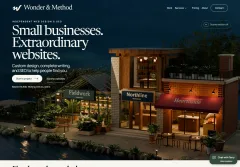
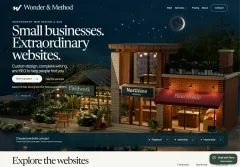
Add looping night sky and clarify homepage service copy

diff --git a/src/assets/living-city.css b/src/assets/living-city.css
@@ -146,6 +146,31 @@ html:not(.nav-ready) .studio-home.edition-living-city .city-copy{padding-top:26p
 .city-star:nth-child(18){--star-x:77%;--star-y:14%;--star-period:5.4s;--star-delay:-2.1s}
 .is-city-playing .city-star{animation-play-state:running}
 @keyframes city-twinkle{0%,100%{opacity:.18;transform:scale(.6)}35%{opacity:.35;transform:scale(.85)}52%{opacity:1;transform:scale(1.5)}70%{opacity:.3;transform:scale(.8)}}
+/* The sky continues after the introduction; every effect shares the playback state. */
+.city-night{position:absolute;z-index:0;top:-55px;left:-20%;width:90%;max-width:450px;height:150px;pointer-events:none}
+.city-moon{position:absolute;right:0;top:-6px;width:100px;height:100px}
+.city-moon-surface{position:absolute;inset:0;background:url('/assets/living-city-night/crescent-moon.webp') center/contain no-repeat;filter:drop-shadow(0 0 8px #ffe8b94d)}
+.city-moon-halo{position:absolute;inset:-28%;border-radius:50%;background:radial-gradient(ellipse,#b9dcf21c 0%,#b9dcf20a 35%,transparent 67%);opacity:.6}
+.city-constellations{position:absolute;inset:0;width:100%;height:100%;overflow:visible}
+.city-star-route{stroke:#b9d9e7;stroke-width:.8;stroke-linecap:round;stroke-linejoin:round;stroke-dasharray:1;stroke-dashoffset:0;opacity:.24}
+.city-map-stars{fill:#fff2d6;filter:drop-shadow(0 0 3px #dfebff);opacity:.8}
+.city-star-glint{stroke:#e9f5ff;stroke-width:.75;stroke-linecap:round;opacity:.55;filter:drop-shadow(0 0 3px #d4e9ff)}
+.city-constellation--two{--night-delay:-7s;--glimmer-delay:-3s}
+.city-meteor{position:absolute;left:10%;top:12%;width:108px;height:2px;border-radius:50%;background:linear-gradient(90deg,transparent,#b9dcf266 65%,#fff6dc);box-shadow:4px 0 8px -2px #f2f7ff;opacity:0;transform:translate(0,0) rotate(24deg);transform-origin:right center;--meteor-x:320px;--meteor-y:130px}
+.city-meteor::after{content:'';position:absolute;right:0;top:-1px;width:4px;height:4px;border-radius:50%;background:#fff9e9;box-shadow:0 0 8px 2px #dceeff80}
+.city-meteor--two{left:44%;top:4%;width:75px;--meteor-x:220px;--meteor-y:96px}
+.is-city-complete .city-moon-halo{animation:city-moon-glow 9s ease-in-out infinite;animation-play-state:paused}
+.is-city-complete .city-star-route{animation:city-constellation-trace 18s ease-in-out var(--night-delay,0s) infinite;animation-play-state:paused}
+.is-city-complete .city-map-stars,.is-city-complete .city-star-glint{animation:city-map-glimmer 6.5s ease-in-out var(--glimmer-delay,0s) infinite;animation-play-state:paused}
+.is-city-complete .city-meteor--one{animation:city-shooting-star 17s linear infinite;animation-play-state:paused}
+.is-city-complete .city-meteor--two{animation:city-shooting-star 23s 7s linear infinite;animation-play-state:paused}
+.is-city-complete.is-city-playing .city-night *{animation-play-state:running}
+@keyframes city-moon-glow{0%,100%{opacity:.45;transform:scale(.9)}50%{opacity:1;transform:scale(1.08)}}
+@keyframes city-constellation-trace{0%{stroke-dashoffset:1;opacity:0}12%{opacity:.45}32%,65%{stroke-dashoffset:0;opacity:.45}84%,100%{stroke-dashoffset:0;opacity:0}}
+@keyframes city-map-glimmer{0%,100%{opacity:.4}38%{opacity:.6}55%{opacity:1}76%{opacity:.55}}
+@keyframes city-shooting-star{0%,5%{opacity:0;transform:translate(0,0) rotate(24deg) scaleX(.35)}6.5%{opacity:1}13%{opacity:0;transform:translate(var(--meteor-x),var(--meteor-y)) rotate(24deg) scaleX(1)}100%{opacity:0;transform:translate(var(--meteor-x),var(--meteor-y)) rotate(24deg) scaleX(1)}}
+@media(max-width:1023px){.city-night{top:0;left:0;width:100%;max-width:none;height:180px}.city-moon{right:2%;top:-8px;width:106px;height:106px}}
+@media(max-width:767px){.city-night{height:150px}.city-moon{right:0;top:-6px;width:86px;height:86px}.city-constellations{width:91%;height:126px;left:-1%;top:20px}.city-meteor{left:3%;top:8%;width:75px;--meteor-x:185px;--meteor-y:82px}.city-meteor--two{left:24%;top:4%;width:56px;--meteor-x:150px;--meteor-y:66px}}
 /* Each real website turns into view, then rests flat so its type stays sharp. */
 .city-reveal{--reveal-ink:#233e32;--reveal-light:#bfd6a9;--reveal-turn:4deg;--reveal-drift:34px;border-color:#f8f6ef80;border-radius:15px;box-shadow:0 32px 80px -18px #00141ff2,0 0 36px -20px var(--reveal-light);transform-origin:50% 65%;transform:translateY(-18px) scale(.97);transition:opacity .38s ease,transform .5s ease,visibility .4s}
 .city-reveal--northline{--reveal-ink:#203944;--reveal-light:#b8d5e4;--reveal-turn:-4deg;--reveal-drift:-30px}

diff --git a/operations/LIVING_CITY_20261020.md b/operations/LIVING_CITY_20261020.md
@@ -7,6 +7,7 @@ The Living City edition pairs a rendered waterfront neighborhood with a native p
 - The homepage opens with a still, then starts a twelve-second introduction automatically when motion is allowed. One four-second seamless city film is chosen for the screen width. Native website previews appear in sequence: Fieldwork at 1.5 seconds, Northline at 4.5, Hearthside at 7.5, then an unobstructed city from 10.5 seconds. At twelve seconds the introduction ends and the subtle city ambience continues.
 - Pause and replay control both the previews and the city. Leaving the scene or backgrounding the tab suspends playback. A visitor's explicit play or pause choice is remembered for the current browser tab. Reduced-motion and data-saving settings retain the still without requesting the film automatically. A blocked autoplay exposes a play action; a loading or playback failure restores the still and offers retry.
 - Staggered stars brighten on repeating 3.6–5.5-second cycles, continuing through the ambient ending. Each website card turns into view, receives a soft light sweep and reveals its branded caption in sequence, then rests without a transform for crisp text. Pause also holds the stars and caption animations. Keyboard focus settles the current card immediately and keeps it readable after focus leaves; replay restores the entrance. Reduced motion leaves the stars still and disables the tour.
+- The clear sky contains an original pair of decorative star maps and a textured crescent moon. After the introduction, constellation lines trace and fade on an eighteen-second loop, the moon halo gently brightens, and two shooting stars cross at staggered seventeen- and twenty-three-second intervals. Pause, offscreen suspension and page backgrounding hold these effects; replay resets them. Reduced motion keeps the moon and star maps static and hides the shooting stars. The transparent moon source and exact built-in image-generation prompt are preserved in `motion/art/living-city-night/`; the compact web image is under `src/assets/living-city-night/`.
 - The header blends with the opening scene and stays fixed while scrolling, switching to a readable paper background. Scene links reveal the matching project below the header, including when revisiting a fragment through browser history.
 - The portfolio sits below the scene and is available immediately. Keyboard arrows, Home and End select the matching business, screenshot and named destination together. Without JavaScript, all three concepts remain visible. Motion never forces a scroll or substitutes for a link.
 - Screenshots come from the actual concept pages. `scripts/capture-city-previews.mjs` records their capture dimensions and source fingerprints in `src/city-preview-captures.json`.

diff --git a/deployment/PRODUCTION.md b/deployment/PRODUCTION.md
@@ -1,6 +1,6 @@
 # Production website
 
-Current source revision: [Living City homepage and Buffalo Work archive](../operations/LIVING_CITY_20261020.md): a twelve-second introduction with native website showcases, a seamless ambient city loop and a fixed header, with the preserved Buffalo animation on its own Work page. The October 21 motion polish adds staggered looping stars and branded card entrances that settle into crisp text. Motion starts automatically when visitor preferences permit it. The update preserves all 286 pages, 285 sitemap URLs and 23 guides. Migration 0016 was applied in the preceding Living City release; this update requires no new migration. Use the private Living City pizzazz release record for verified publication identity.
+Current source revision: [Living City homepage and Buffalo Work archive](../operations/LIVING_CITY_20261020.md): a twelve-second introduction with native website showcases, a seamless ambient city loop and a fixed header, with the preserved Buffalo animation on its own Work page. The October 21 motion polish adds staggered looping stars, a crescent moon, glimmering constellations, occasional shooting stars and branded card entrances that settle into crisp text. The night effects continue after the introduction and share the pause and reduced-motion behavior. Motion starts automatically when visitor preferences permit it. The update preserves all 286 pages, 285 sitemap URLs and 23 guides. Migration 0016 was applied in the preceding Living City release; this update requires no new migration. Use the private Living City night-sky release record for verified publication identity.
 
 Previous source revision: [practical content and planning tools](../operations/CONTENT_GAPS_20261020.md): six new guides, nine downloads, expanded guidance and a browser-only ROI calculator. That release contained 285 pages and 284 sitemap URLs. Its private `content-implementation-20261020` release record retains its deployed identity and Google submission result.
 
